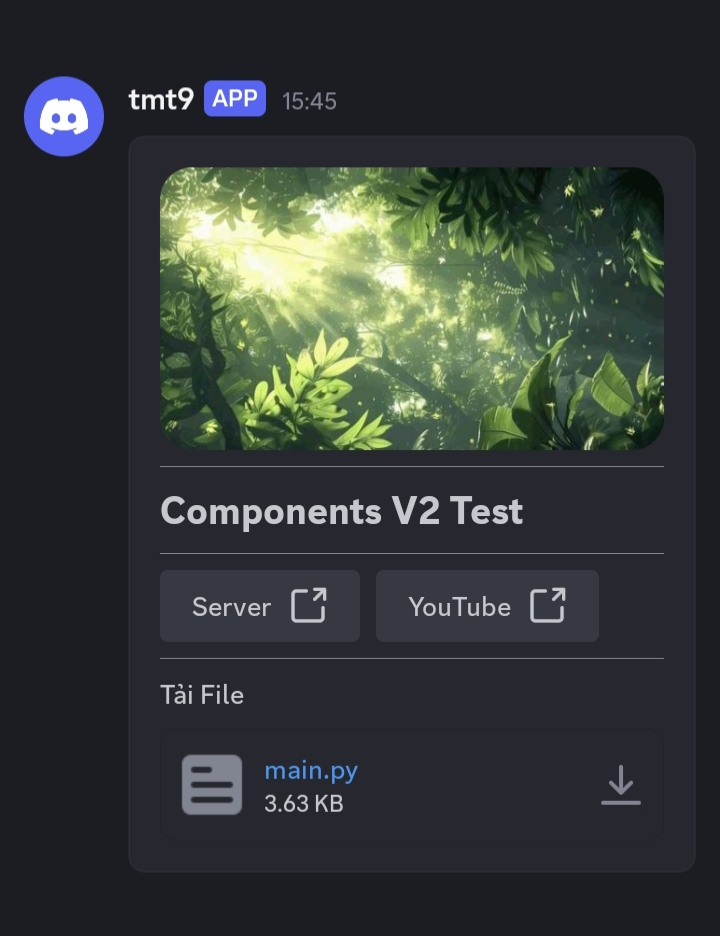
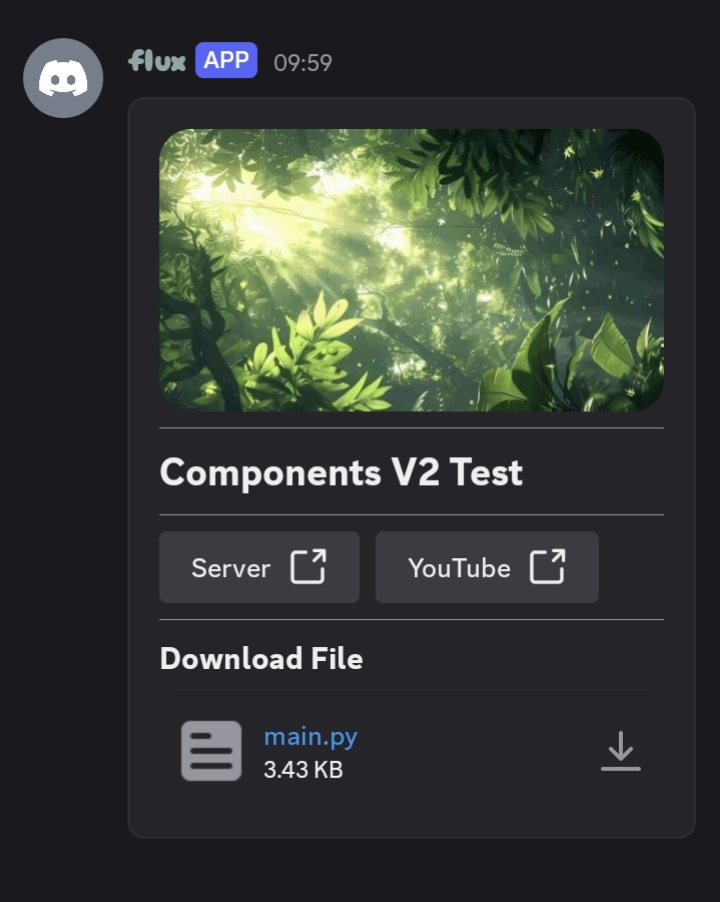
Add files via upload

diff --git a/main.py b/main.py
@@ -4,93 +4,135 @@ import discord
 from discord import ui
 from discord.ext import commands
 
-BOT_TOKEN: str = "YOUR_BOT_TOKEN"
-COMMAND_PREFIX: str = "!"
+TOKEN = "YOUR_BOT_TOKEN"
+PREFIX = "$"
 BANNER_FILENAME = "1000371960.jpg"
 
-gateway_intents = discord.Intents.all()
-bot = commands.Bot(command_prefix=COMMAND_PREFIX, intents=gateway_intents, help_command=None)
+intents = discord.Intents.all()
+bot = commands.Bot(
+    command_prefix=PREFIX,
+    intents=intents,
+    help_command=None
+)
 
 
 class SendView(ui.LayoutView):
-    def __init__(self, author: discord.Member, user_filename: str) -> None:
-        super().__init__(timeout=120)
-        self.author = author
+    def __init__(self, user_filename: str):
+        super().__init__(timeout=None)
 
-        container = ui.Container(accent_color=None)  # Tạo Container + xoá viền dọc
-        
-        # Ảnh Banner
-        banner_gallery = ui.MediaGallery()
-        banner_gallery.add_item(media=f"attachment://{BANNER_FILENAME}")
-        container.add_item(banner_gallery)  # Nạp ảnh vào Container
-        
-        container.add_item(ui.Separator())  # Chèn đường kẻ
-        
-        # Tiêu đề
+        container = ui.Container()
+
+        # Banner
+        banner = ui.MediaGallery()
+        banner.add_item(media=f"attachment://{BANNER_FILENAME}")
+        container.add_item(banner)
+
+        container.add_item(ui.Separator())
+
+        # Header
         container.add_item(ui.TextDisplay("## Components V2 Test"))
-        container.add_item(ui.Separator())  # Chèn đường kẻ
-        
-        # Tạo khay chứa button
-        action_row = ui.ActionRow(
-            ui.Button(label="Server", style=discord.ButtonStyle.link, url="https://discord.gg/your-invite"),
-            ui.Button(label="YouTube", style=discord.ButtonStyle.link, url="https://youtube.com/@your-channel")
+        container.add_item(ui.Separator())
+
+        # Link buttons
+        container.add_item(ui.ActionRow(
+            ui.Button(
+                label="Server",
+                style=discord.ButtonStyle.link,
+                url="https://discord.gg/your-invite"
+            ),
+            ui.Button(
+                label="YouTube",
+                style=discord.ButtonStyle.link,
+                url="https://youtube.com/@your-channel"
+            )
+        ))
+
+        container.add_item(ui.Separator())
+
+        # Uploaded file
+        container.add_item(ui.TextDisplay("### Download File"))
+        container.add_item(
+            ui.File(media=f"attachment://{user_filename}")
         )
-        container.add_item(action_row)  # Nạp khay chứa button vào Container
-        
-        container.add_item(ui.Separator())  # Chèn đường kẻ
-        container.add_item(ui.TextDisplay("Tải File"))
-        
-        # 5. File đính kèm của user
-        file_component = ui.File(media=f"attachment://{user_filename}")
-        container.add_item(file_component)
-        
+
         self.add_item(container)
-        
+
+
+class Bot(commands.Bot):
+    async def on_ready(self):
+        print("=" * 50)
+        print(f"[+] Logged in as {self.user} | ID: {self.user.id}")
+        print("=" * 50)
+
+
+bot = Bot(
+    command_prefix=PREFIX,
+    intents=intents,
+    help_command=None
+)
+
 
 @bot.command(name="send")
-async def send_command(ctx: commands.Context, channel: discord.TextChannel) -> None:
-    # Kiểm tra file đính kèm
+async def send_command(
+    ctx: commands.Context,
+    channel: discord.TextChannel
+):
+    # Check for an uploaded file
     if not ctx.message.attachments:
         await ctx.send("❌ Please attach a file to this command message!")
         return
-        
-    # Kiểm tra file ảnh banner
-    if not os.path.exists(BANNER_FILENAME):
-        await ctx.send(f"❌ Missing banner image file `{BANNER_FILENAME}` in bot folder!")
+
+    # Check for the banner
+    if not os.path.isfile(BANNER_FILENAME):
+        await ctx.send(
+            f"❌ Missing banner image `{BANNER_FILENAME}` in the bot folder!"
+        )
         return
 
-    # Lấy file từ tin nhắn của user
-    user_attachment = ctx.message.attachments[0]
-    user_file = await user_attachment.to_file()
-    
-    # Lấy file ảnh banner
-    banner_file = discord.File(BANNER_FILENAME, filename=BANNER_FILENAME)
-    
-    # Tạo View với tên file của user
-    view = SendView(author=ctx.author, user_filename=user_attachment.filename)
-    
-    # Gửi sang kênh đã tag
-    await channel.send(view=view, files=[banner_file, user_file])
-    
-    await ctx.send(f"✅ Component sent to {channel.mention}!", delete_after=5)
-    # await ctx.message.delete()
-    
+    attachment = ctx.message.attachments[0]
+
+    # Prepare the files
+    user_file = await attachment.to_file()
+    banner_file = discord.File(
+        BANNER_FILENAME,
+        filename=BANNER_FILENAME
+    )
+
+    view = SendView(attachment.filename)
+
+    # Send the Components V2 message
+    await channel.send(
+        view=view,
+        files=[banner_file, user_file]
+    )
+
+    await ctx.send(
+        f"✅ Component sent to {channel.mention}!",
+        delete_after=5
+    )
+
 
 @send_command.error
-async def send_command_error(ctx: commands.Context, error: commands.CommandError) -> None:
+async def send_command_error(
+    ctx: commands.Context,
+    error: commands.CommandError
+):
     if isinstance(error, commands.MissingRequiredArgument):
-        await ctx.send("**Tutorials:** `!send <#channel>` (and remember to attach the file to this message!)")
-        
+        await ctx.send(
+            "**Usage:** `$send <#channel>`\n"
+            "Attach a file to this command message!"
+        )
+
 
 if __name__ == "__main__":
-    if BOT_TOKEN == "YOUR_BOT_TOKEN" or not BOT_TOKEN:
-        print("[!] ERROR: Token is empty or not configured!")
+    if not TOKEN or TOKEN == "YOUR_BOT_TOKEN":
+        print("[!] Bot token is not configured!")
         sys.exit(1)
-        
+
     try:
-        bot.run(BOT_TOKEN)
-    except discord.errors.LoginFailure:
-        print("[!] ERROR: Invalid token!")
+        bot.run(TOKEN)
+    except discord.LoginFailure:
+        print("[!] Invalid bot token!")
         sys.exit(1)
     except KeyboardInterrupt:
         print("\n[!] Bot stopped!")

diff --git a/README.md b/README.md
@@ -771,7 +771,7 @@ async def on_button_click(self, interaction: discord.Interaction):
 ---
 
 # Support Server
-https://discord.gg/8fTGEVGtFM
+https://discord.gg/3SngpfcgVT
 
 ---
 
